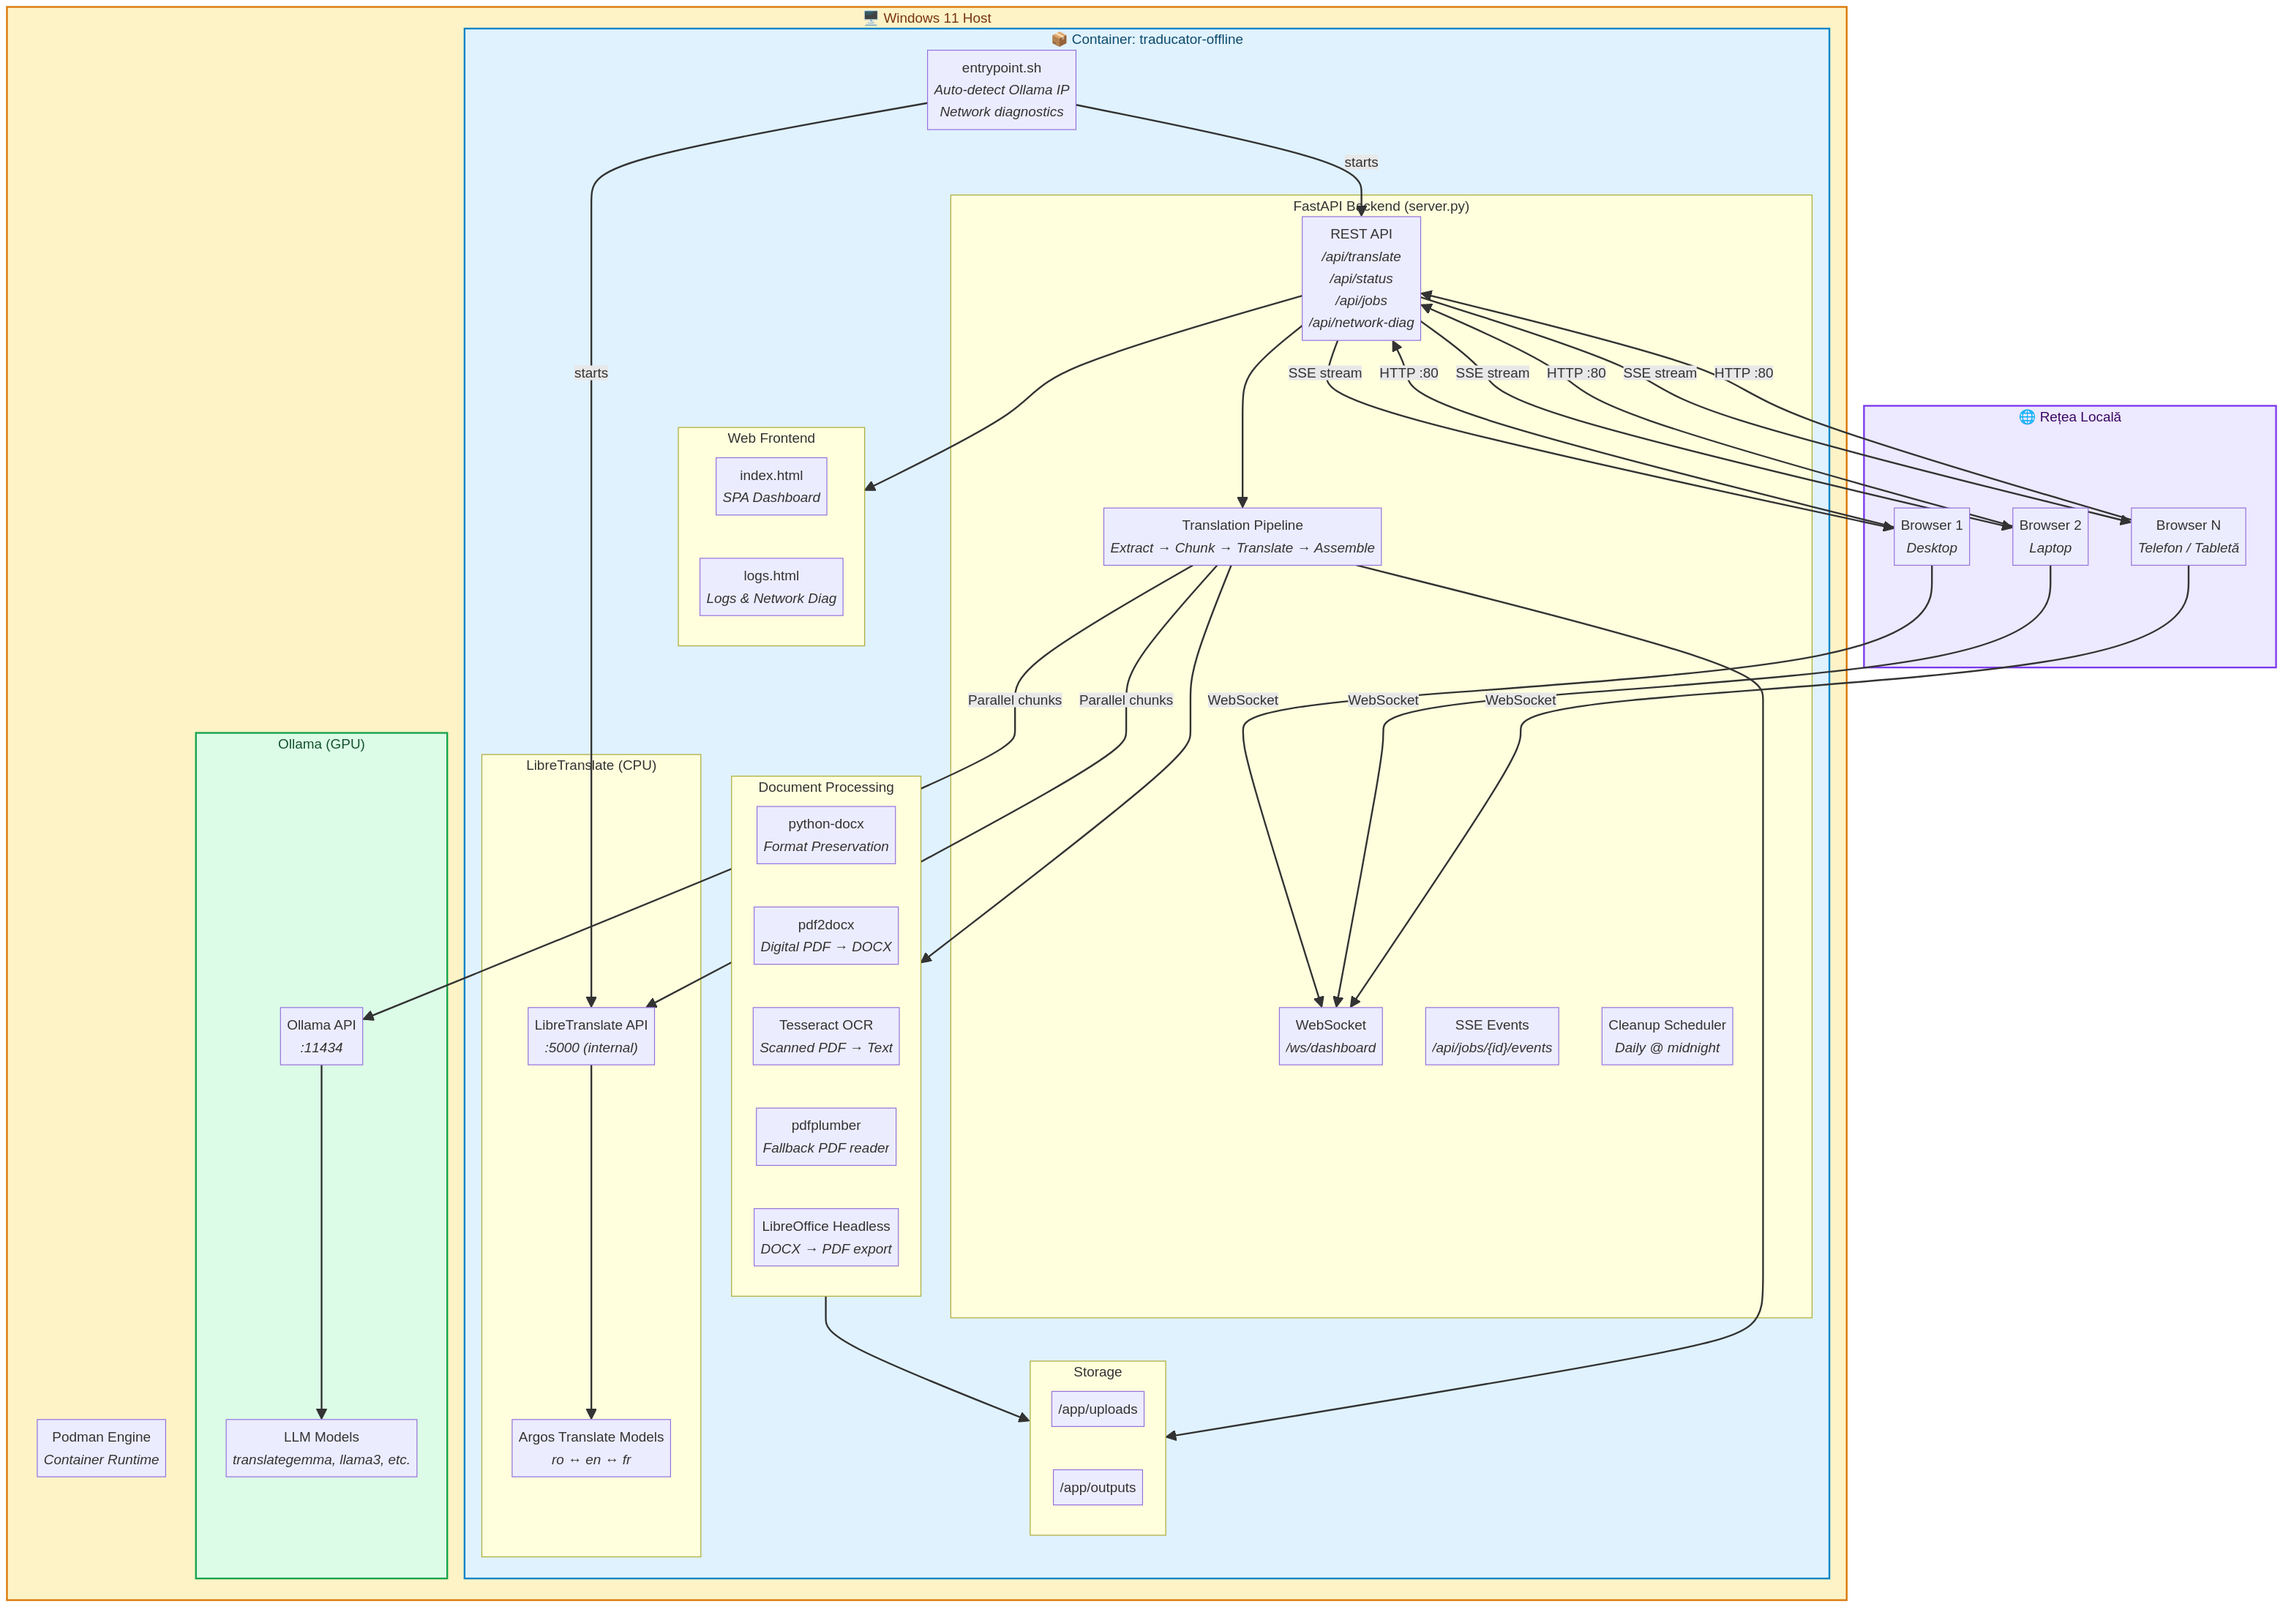
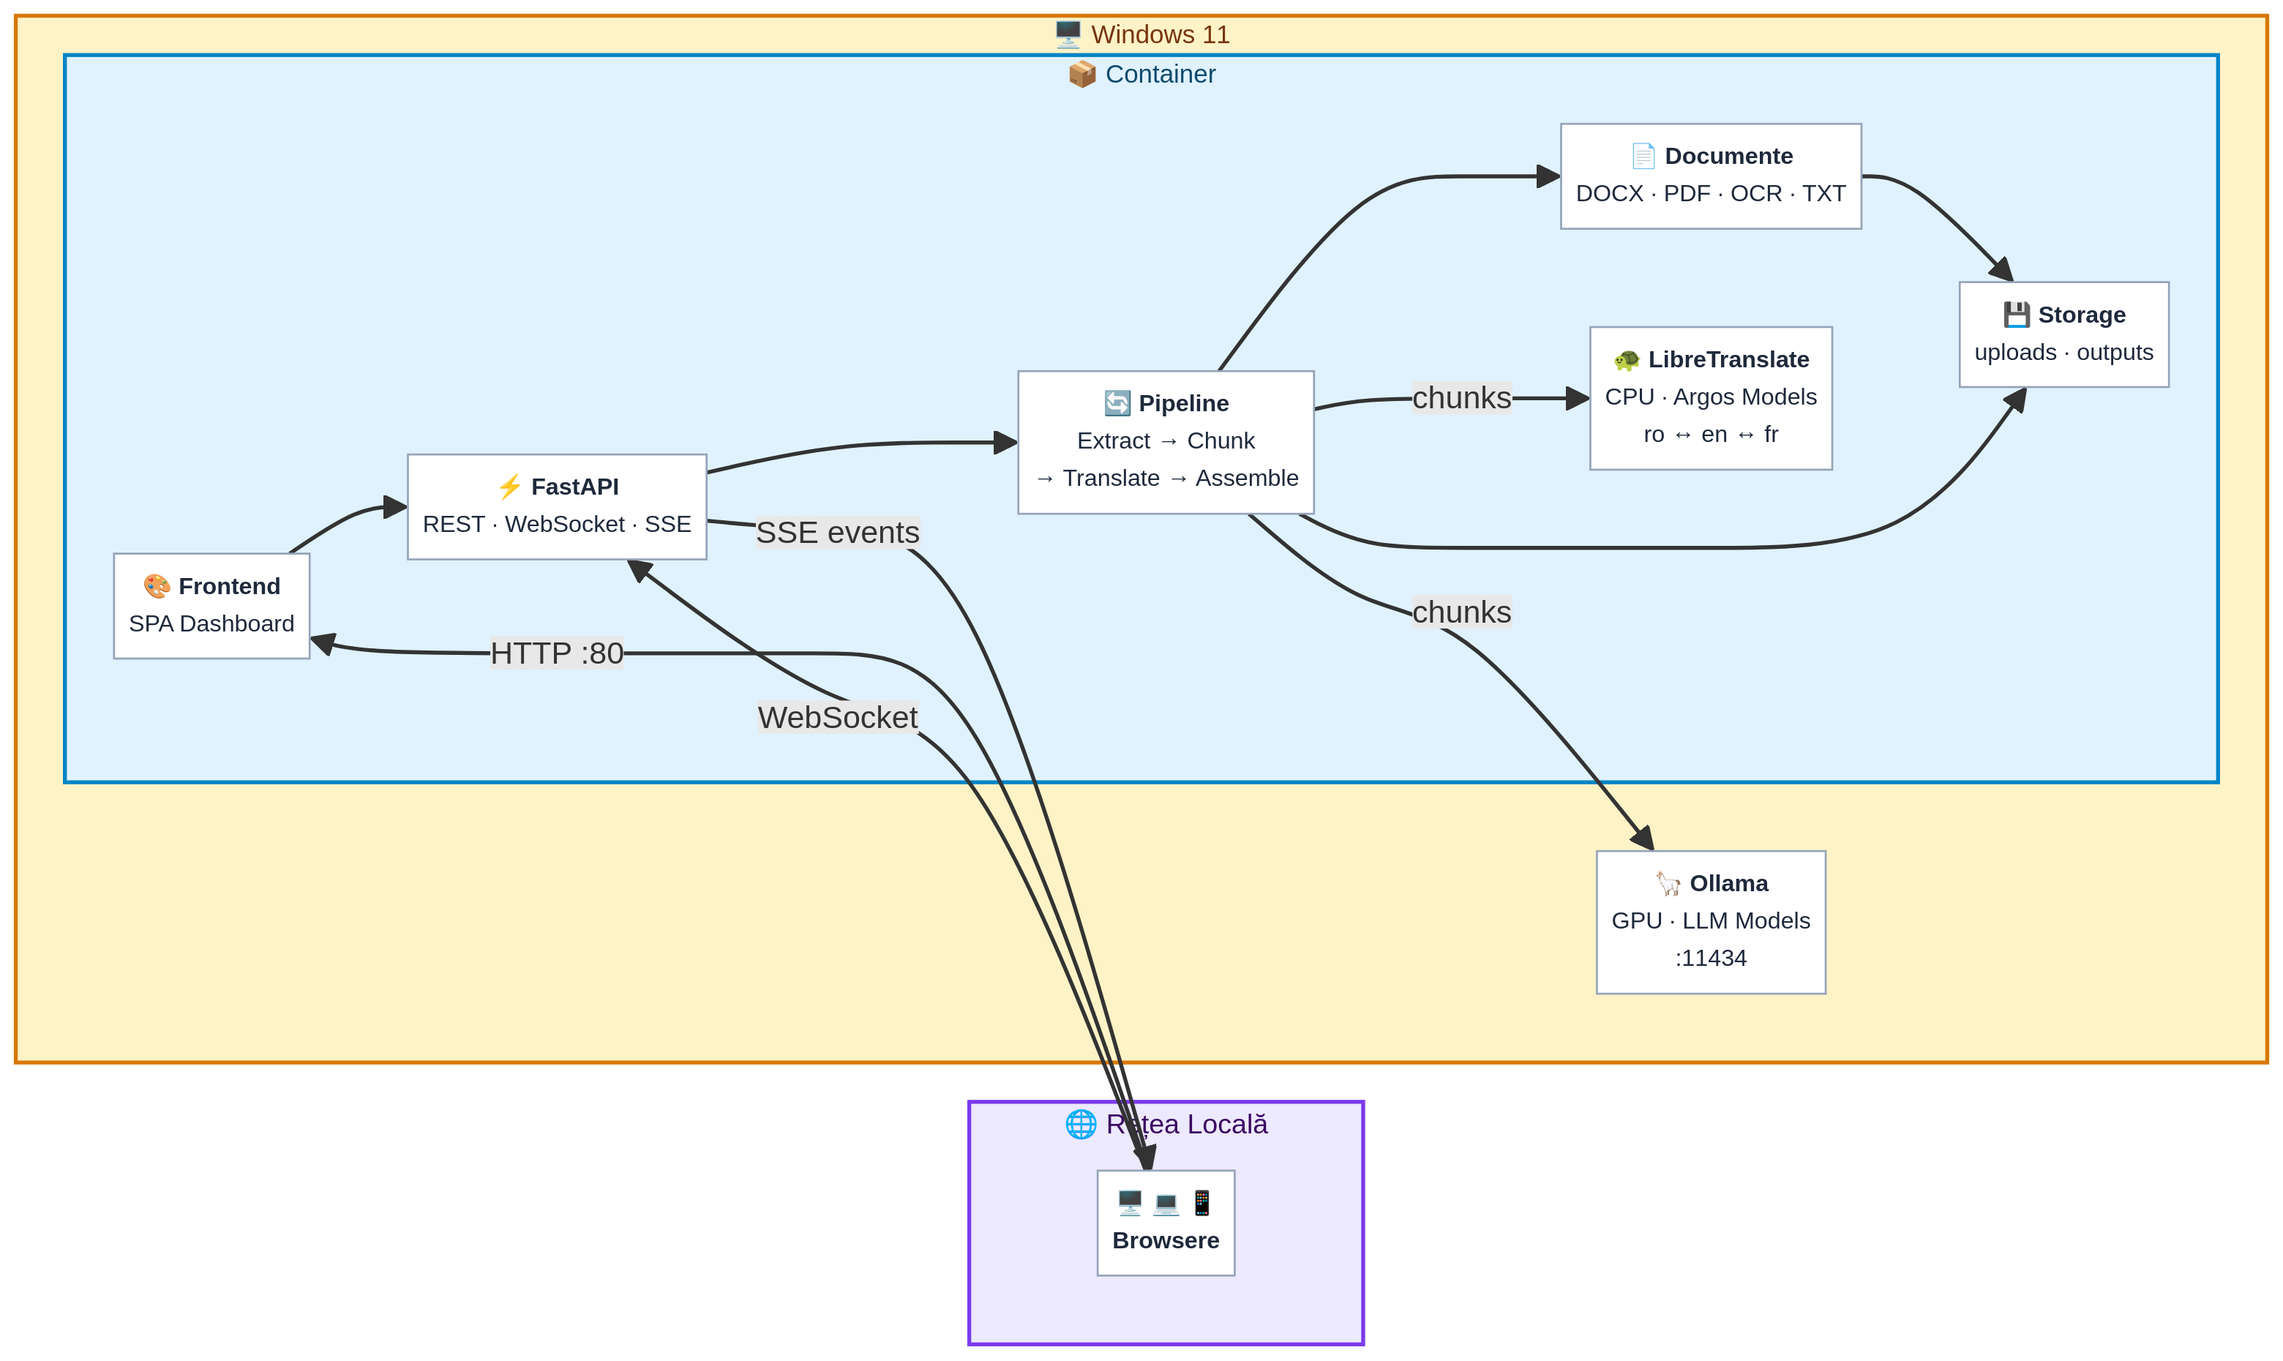
Diagramă arhitectură simplificată + Mermaid interactiv în README
- Refăcut architecture.mmd: design simplificat, curat, cu emoji și culori
- Regenerat architecture.png ca fallback
- README: bloc Mermaid interactiv pe GitHub + PNG în details/summary
- Changelog actualizat cu modificarea diagramei

diff --git a/README.md b/README.md
@@ -6,7 +6,54 @@ O soluție completă de traducere a documentelor, containerizată, proiectată p
 
 Soluția este construită pe o arhitectură modulară, centrată în jurul unui container Podman/Docker care rulează pe o mașină gazdă Windows. Această abordare asigură portabilitate maximă și un mediu de rulare izolat și consistent.
 
+```mermaid
+graph LR
+    subgraph NET["🌐 Rețea Locală"]
+        U["🖥 💻 📱<br/><b>Browsere</b>"]
+    end
+
+    subgraph HOST["🖥 Windows 11"]
+        subgraph CONTAINER["📦 Container"]
+            FE["🎨 <b>Frontend</b><br/>SPA Dashboard"]
+            API["⚡ <b>FastAPI</b><br/>REST · WebSocket · SSE"]
+            PIPE["🔄 <b>Pipeline</b><br/>Extract → Chunk<br/>→ Translate → Assemble"]
+            DOC["📄 <b>Documente</b><br/>DOCX · PDF · OCR · TXT"]
+            LT["🐢 <b>LibreTranslate</b><br/>CPU · Argos Models<br/>ro ↔ en ↔ fr"]
+            STORE["💾 <b>Storage</b><br/>uploads · outputs"]
+        end
+
+        OLL["🦙 <b>Ollama</b><br/>GPU · LLM Models<br/>:11434"]
+    end
+
+    U -->|"HTTP :80"| FE
+    U -->|"WebSocket"| API
+    FE --> API
+    API --> PIPE
+    PIPE --> DOC
+    PIPE -->|"chunks"| LT
+    PIPE -->|"chunks"| OLL
+    DOC --> STORE
+    PIPE --> STORE
+    API -->|"SSE events"| U
+
+    classDef net fill:#ede9fe,stroke:#7c3aed,stroke-width:2px,color:#3b0764
+    classDef host fill:#fef3c7,stroke:#d97706,stroke-width:2px,color:#78350f
+    classDef container fill:#e0f2fe,stroke:#0284c7,stroke-width:2px,color:#0c4a6e
+    classDef ollama fill:#dcfce7,stroke:#16a34a,stroke-width:2px,color:#14532d
+    classDef node fill:#fff,stroke:#94a3b8,stroke-width:1px,color:#1e293b
+
+    class NET net
+    class HOST host
+    class CONTAINER container
+    class OLL ollama
+    class U,FE,API,PIPE,DOC,LT,STORE node
+```
+
+<details><summary>📷 Versiune statică (PNG)</summary>
+
 ![Diagrama Arhitecturii](docs/architecture.png)
+
+</details>
 
 ### Componente Cheie
 
@@ -51,3 +98,4 @@ Pentru instrucțiuni detaliate de instalare și utilizare, consultați **[TUTORI
 
 -   **Card Caractere redus cu 30%**: dimensiunea a fost micșorată de la 250px la 175px pentru un layout mai compact.
 -   **Coloanele 2 și 3 unificate**: cardurile de statistici (Caractere, Segmente, Timp total), bara de progres, badge-ul de status și butoanele de acțiuni sunt acum grupate într-o singură coloană, aliniată la dreapta.
+-   **Diagramă arhitectură simplificată**: schema a fost refăcută în Mermaid interactiv, cu un design mai curat și vizual. PNG-ul este disponibil ca fallback.
